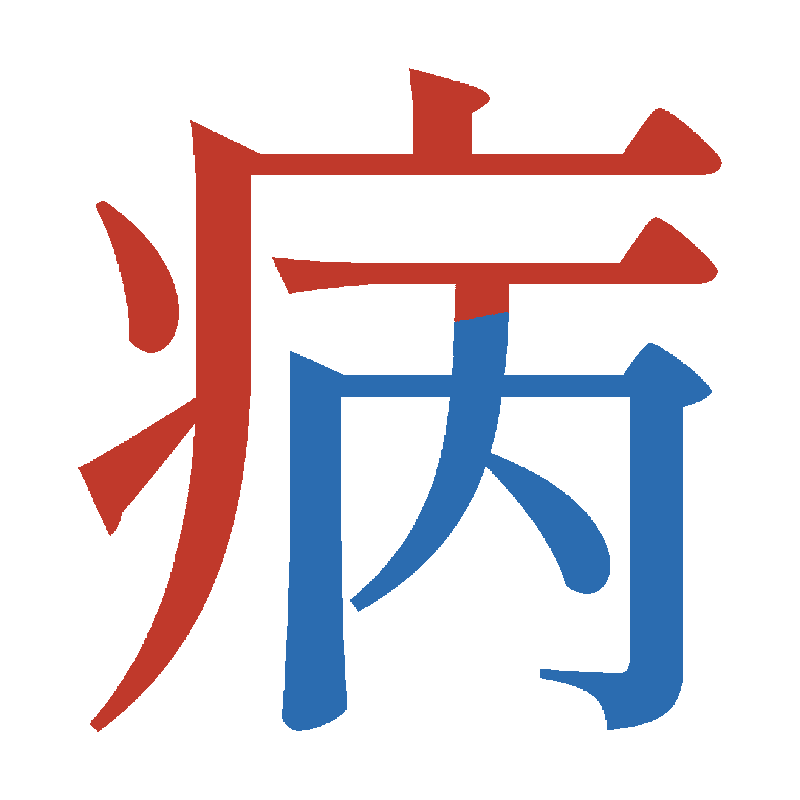
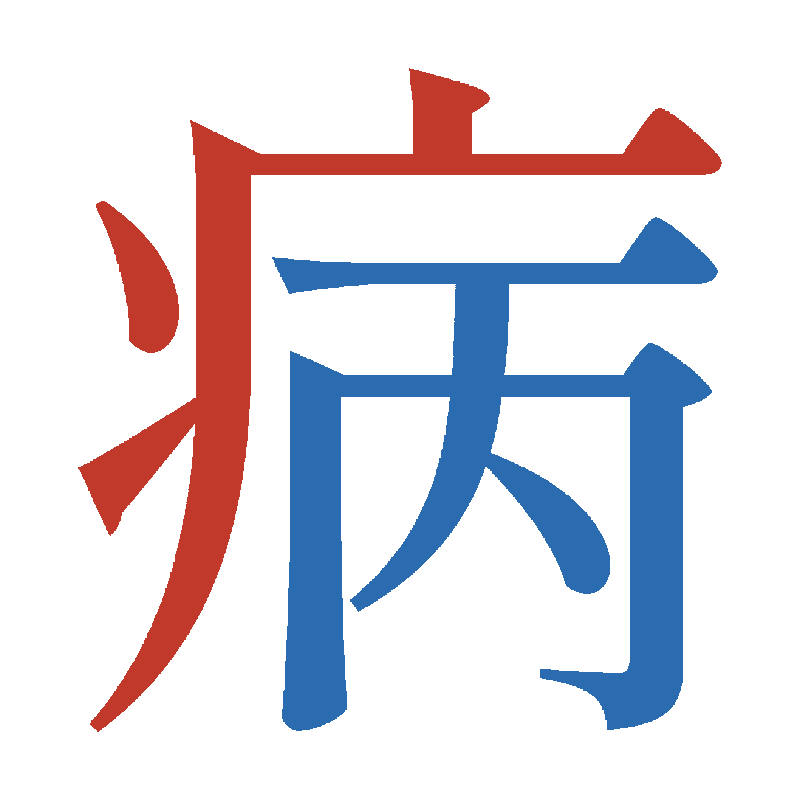
fix(病): 丙 的頂橫與丿起筆改回藍——紅色只剩「疒」，不再讀成「广」

Changed region(s): [[0.3438, 0.25, 0.9062, 0.4062]]

diff --git a/index.html b/index.html
@@ -247,7 +247,7 @@ footer a{color:var(--p1);text-decoration:none;border-bottom:1px solid rgba(43,10
         <ul class="parts"><li><span class="dot" style="background:#c0392b"></span><span class="pname">門</span><span class="ptag">部首</span></li><li><span class="dot" style="background:#2b6cb0"></span><span class="pname">人</span><span class="ptag">部件</span></li></ul>
       </article>
       <article class="ex-card">
-        <div class="ex-glyph"><img src="assets/examples/30149.png?v=6e411410" alt="「病」兩面包圍結構" width="800" height="800" loading="lazy"></div>
+        <div class="ex-glyph"><img src="assets/examples/30149.png?v=269e34b9" alt="「病」兩面包圍結構" width="800" height="800" loading="lazy"></div>
         <h3>兩面包圍結構</h3>
         <p class="ex-note">上、左（或上、右）兩面包住內部件。</p>
         <div class="ex-sample">例字　<b>病</b>　<span class="rad">部首：疒</span></div>

diff --git a/_src/patch_colour.py b/_src/patch_colour.py
@@ -44,6 +44,10 @@ RULES = [
     #     （x>0.12 以保留殸長撇壓在耳頂的筆尖）。
     ("box", "聲", "B", "R", (0.120, 0.400, 0.520, 0.580)),
     ("box", "聲", "B", "R", (0.220, 0.320, 0.560, 0.680)),
+    # 病（結構示範）：丙 的頂橫連同下方丿的起筆被判給「疒」的領地 → 整塊回到丙的藍。
+    #     這塊紅與疒的一橫之間有白隙，是獨立連通塊，所以用 seed 整塊翻色，
+    #     不會碰到疒的一橫、長撇與兩點（它們屬另一個紅色連通塊）。
+    ("seed", "病", "R", "B", (0.907, 0.281)),
 ]
 
 

diff --git a/docs/qc-2026-10-26.md b/docs/qc-2026-10-26.md
@@ -22,7 +22,7 @@
 | 未上色墨跡 | **0** |
 | 孤兒圖（不被頁面引用） | 5 張已刪（國、思、意、湖、病 在 `chars/` 的重複舊圖，抗鋸齒版本，容易誤判） |
 
-## 已修正（6 字）
+## 已修正（7 字）
 
 全部是「手畫矩形切過筆畫」造成的整塊錯色，用一刀切的區塊規則修回：
 
@@ -34,8 +34,9 @@
 | 烈 | 刂 的豎鉤末端被判給「灬」，鉤變成紅色 | 3,246 |
 | 喜 | 第二個口的底橫與右豎下段被判給「䒑一」，口 只剩上半綠 | 11,224 |
 | 聲 | 耳 的頂橫左段與左豎上段被判給「殸」，耳 的左上角變藍 | 9,140 |
+| 病（示範） | 丙 的頂橫連同丿的起筆被判給「疒」，紅色讀成「广」，部首看不出是「疒」 | 13,892 |
 
-修正後逐字放大複核：上列 6 字的部件色塊已完整，其餘 43 張像素未改動。
+修正後逐字放大複核：上列 7 字的部件色塊已完整，其餘 43 張像素未改動。
 
 ## 未修正（判斷為筆畫重疊，或需逐筆外形才切得準）
 
